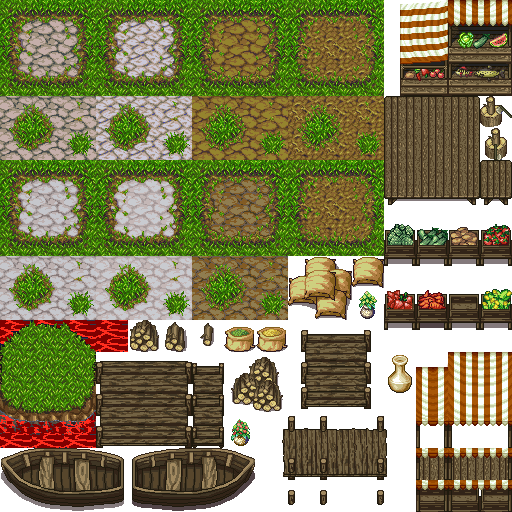
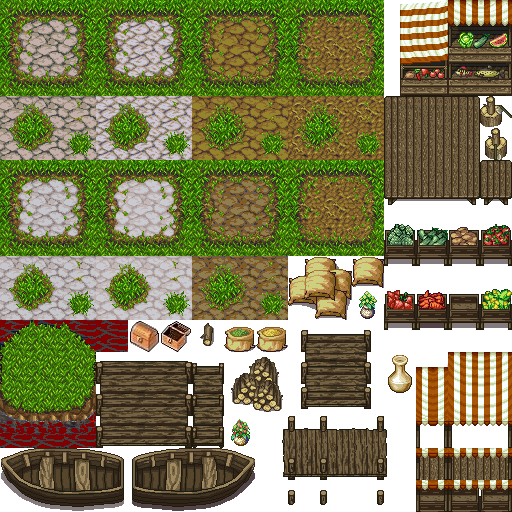
update assets and map

diff --git a/core/assets/items2.tsx b/core/assets/items2.tsx
@@ -1,0 +1,4 @@
+<?xml version="1.0" encoding="UTF-8"?>
+<tileset name="items" tilewidth="32" tileheight="32" tilecount="434" columns="14">
+ <image source="ed8753041bee747ccb27029e8843dfa7--game-icon-free-games.jpg" width="476" height="1020"/>
+</tileset>
